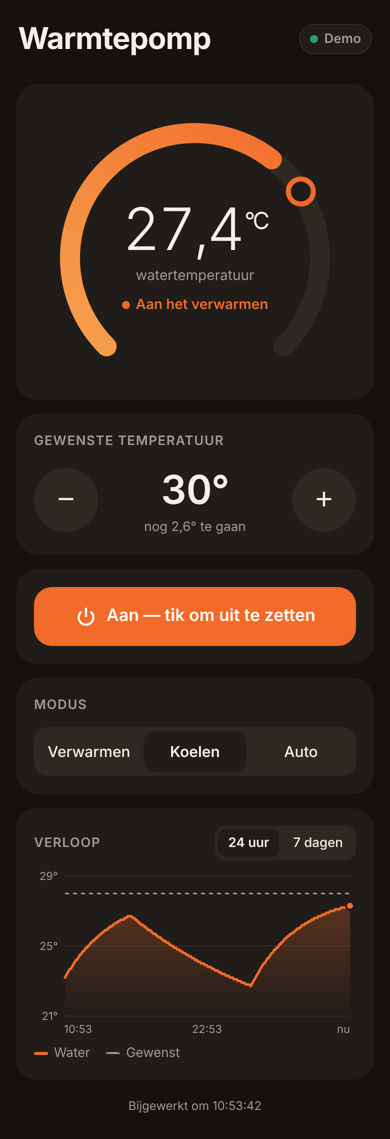
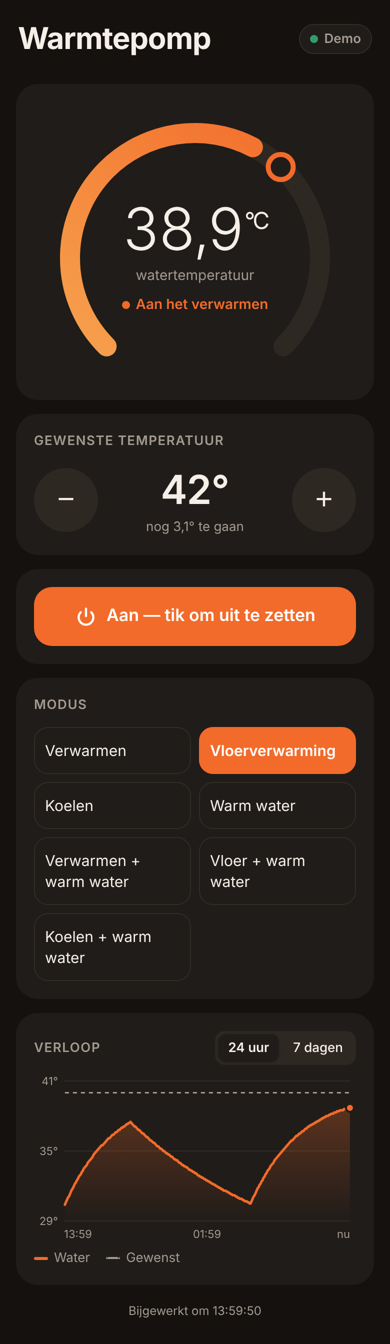
Tailor defaults to DRZM air/water heat pump
Use the DRZM touchscreen modes (heating, floor heating, cooling, hot
water and combinations) with a 7-60 °C range, show modes as a grid,
label cooling correctly, and document Wi-Fi pairing via
Function → Wi-Fi → Smart Mode.

Claude-Session: https://claude.ai/code/session_01XnkKSdU1Sgb57evDbzKman

diff --git a/smartheatpump/web/index.html b/smartheatpump/web/index.html
@@ -114,6 +114,12 @@
   /* Grafiek */
   .chart-head { display: flex; justify-content: space-between; align-items: center; margin-bottom: 8px; }
   .chart-head h2 { margin: 0; }
+  .modes { display: grid; grid-template-columns: 1fr 1fr; gap: 8px; }
+  .modes button {
+    border: 1px solid var(--line); background: var(--card); color: var(--text); font: inherit; font-size: 15px;
+    padding: 12px 10px; border-radius: 14px; cursor: pointer; text-align: left; transition: background .2s, border-color .2s;
+  }
+  .modes button[aria-pressed="true"] { background: var(--warm); border-color: var(--warm); color: #fff; font-weight: 600; }
   .seg.small { padding: 3px; border-radius: 10px; }
   .seg.small button { font-size: 13px; padding: 5px 10px; border-radius: 8px; }
   #chart { width: 100%; height: 170px; display: block; }
@@ -200,7 +206,7 @@
 
     <div class="card" id="mode-card">
       <h2>Modus</h2>
-      <div class="seg" id="modes"></div>
+      <div class="modes" id="modes"></div>
     </div>
 
     <div class="card">
@@ -286,10 +292,11 @@
     $("plus").disabled = tgt != null && tgt >= info.temp_max;
 
     const st = $("state");
-    const diff = (tgt ?? 0) - (status.current_temp ?? 0);
+    const cooling = String(status.mode || "").startsWith("cool");
+    const diff = ((tgt ?? 0) - (status.current_temp ?? 0)) * (cooling ? -1 : 1);
     if (!status.power) { st.className = "state off"; st.textContent = "Uit"; }
     else if (diff > 0.3) {
-      st.className = "state heating"; st.innerHTML = `<span class="pulse"></span>Aan het verwarmen`;
+      st.className = "state heating"; st.innerHTML = `<span class="pulse"></span>${cooling ? "Aan het koelen" : "Aan het verwarmen"}`;
       $("target-hint").textContent = `nog ${fmt(diff)}° te gaan`;
     } else { st.className = "state done"; st.textContent = "Op temperatuur"; }
     if (!status.power || diff <= 0.3) $("target-hint").innerHTML = "&nbsp;";

diff --git a/smartheatpump/config.py b/smartheatpump/config.py
@@ -7,7 +7,7 @@ import os
 from dataclasses import dataclass, field
 from pathlib import Path
 
-# Veelgebruikte datapoints (DP's) bij Tuya-warmtepompen (o.a. zwembadwarmtepompen).
+# Veelgebruikte datapoints (DP's) bij Tuya-warmtepompen.
 # Dit verschilt per model: controleer met `smartheatpump dps` en pas zo nodig aan
 # in config.json onder "dp_map".
 DEFAULT_DP_MAP: dict[str, str] = {
@@ -18,11 +18,16 @@ DEFAULT_DP_MAP: dict[str, str] = {
     "fault": "15",
 }
 
-# Modi zoals de warmtepomp ze kent (waarde) en hoe de app ze toont (label).
+# Modi van de DRZM-warmtepomp (zie handleiding: Mode-knop op het touchscreen).
+# De `value` is een gok; controleer met `smartheatpump dps` wat jouw pomp echt stuurt.
 DEFAULT_MODES: list[dict[str, str]] = [
     {"value": "heat", "label": "Verwarmen"},
+    {"value": "floor_heat", "label": "Vloerverwarming"},
     {"value": "cool", "label": "Koelen"},
-    {"value": "auto", "label": "Auto"},
+    {"value": "hot_water", "label": "Warm water"},
+    {"value": "heat_hot_water", "label": "Verwarmen + warm water"},
+    {"value": "floor_hot_water", "label": "Vloer + warm water"},
+    {"value": "cool_hot_water", "label": "Koelen + warm water"},
 ]
 
 
@@ -41,8 +46,8 @@ class Config:
     dp_map: dict[str, str] = field(default_factory=lambda: dict(DEFAULT_DP_MAP))
     # Sommige modellen geven temperaturen ×10 terug (bijv. 285 = 28,5 °C)
     temp_scale: float = 1.0
-    temp_min: float = 5.0
-    temp_max: float = 40.0
+    temp_min: float = 7.0
+    temp_max: float = 60.0
     modes: list[dict[str, str]] = field(default_factory=lambda: [dict(m) for m in DEFAULT_MODES])
     # Wachtwoord voor de web-app (leeg = geen wachtwoord, alleen veilig in je eigen netwerk)
     app_password: str = ""

diff --git a/smartheatpump/server.py b/smartheatpump/server.py
@@ -32,7 +32,7 @@ def create_app(
         if not history.since(86400):
             _seed_demo_history(history)
         recent = history.since(86400)
-        pump = DemoHeatPump(config, current=recent[-1]["current"] if recent else 24.6)
+        pump = DemoHeatPump(config, current=recent[-1]["current"] if recent else 35.0)
     pump = pump or HeatPump(config)
 
     app = Flask(__name__, static_folder=None)
@@ -135,13 +135,13 @@ def _seed_demo_history(history: History) -> None:
     from .client import Status
 
     now = int(time.time())
-    temp = 23.0
+    temp = 30.0
     for i in range(288, 0, -1):
         ts = now - i * 300
         on = i < 100 or i > 220  # 's nachts even uit
-        goal = 28.0 if on else 19.0
+        goal = 40.0 if on else 24.0
         temp += (goal - temp) * (0.02 if on else 0.006)
-        history.add(Status(on, 28.0, round(temp, 1), None, 0, {}), ts=ts)
+        history.add(Status(on, 40.0, round(temp, 1), None, 0, {}), ts=ts)
 
 def run(host: str = "0.0.0.0", port: int = 8000) -> None:
     create_app().run(host=host, port=port, threaded=True)

diff --git a/smartheatpump/demo.py b/smartheatpump/demo.py
@@ -12,11 +12,11 @@ from .config import Config
 class DemoHeatPump:
     mode = "demo"
 
-    def __init__(self, config: Config, current: float = 24.6):
+    def __init__(self, config: Config, current: float = 35.0):
         self.config = config
         self._lock = threading.Lock()
         self._power = True
-        self._target = 28.0
+        self._target = 40.0
         self._current = current
         self._mode = config.modes[0]["value"] if config.modes else "heat"
         self._last = time.monotonic()
@@ -25,7 +25,7 @@ class DemoHeatPump:
         # Watertemperatuur beweegt langzaam richting doel als de pomp aan staat.
         now = time.monotonic()
         dt, self._last = now - self._last, now
-        goal = self._target if self._power else 18.0
+        goal = self._target if self._power else 22.0
         rate = 0.02 if self._power else 0.005  # °C per seconde
         step = min(abs(goal - self._current), rate * dt)
         self._current += step if goal > self._current else -step

diff --git a/tests/test_server.py b/tests/test_server.py
@@ -52,4 +52,4 @@ def test_history(tmp_path):
     history.add(pump.status())
     c = create_app(config, pump=pump, history=history, sample_interval=0).test_client()
     rows = c.get("/api/history?hours=1").get_json()
-    assert len(rows) == 1 and rows[0]["target"] == 28.0
+    assert len(rows) == 1 and rows[0]["target"] == 40.0

diff --git a/README.md b/README.md
@@ -1,7 +1,7 @@
 # smartheatpump-connection
 
-Lees en stuur je warmtepomp aan die je nu met de **Smart Heatpump**-app (Tuya) bedient,
-zonder de app: via je eigen netwerk (lokaal) of via de Tuya-cloud.
+Lees en stuur je **DRZM**-lucht/water-warmtepomp aan (6-8 kW / 12-18 kW) zonder de
+Smart Heatpump-app: via je eigen netwerk (lokaal) of via de Tuya-cloud.
 
 <p>
   <img src="docs/screenshot-licht.png" width="260" alt="App in lichte modus">
@@ -13,6 +13,11 @@ zonder de app: via je eigen netwerk (lokaal) of via de Tuya-cloud.
 ```bash
 pip install -e .
 ```
+
+## 0. Warmtepomp op wifi zetten
+
+Op het touchscreen van de DRZM: **Function → Wi-Fi → Smart Mode** (aanbevolen) of **AP Mode**.
+Voeg hem daarna toe in de app (Smart Life of Tuya Smart werken met het Tuya-platform).
 
 ## 1. Gegevens van je warmtepomp ophalen (eenmalig)
 
@@ -108,7 +113,7 @@ Stel daarnaast altijd een wachtwoord in als de app buiten je eigen netwerk berei
 
 In `config.json`:
 
-- `temp_min` / `temp_max`: bereik van de gewenste temperatuur (standaard 5–40 °C)
+- `temp_min` / `temp_max`: bereik van de gewenste temperatuur (standaard 7–60 °C)
 - `modes`: de modi van jouw warmtepomp, bijvoorbeeld
   `[{"value": "heat", "label": "Verwarmen"}, {"value": "eco", "label": "Eco"}]`.
   De `value` moet overeenkomen met wat `smartheatpump dps` laat zien.
